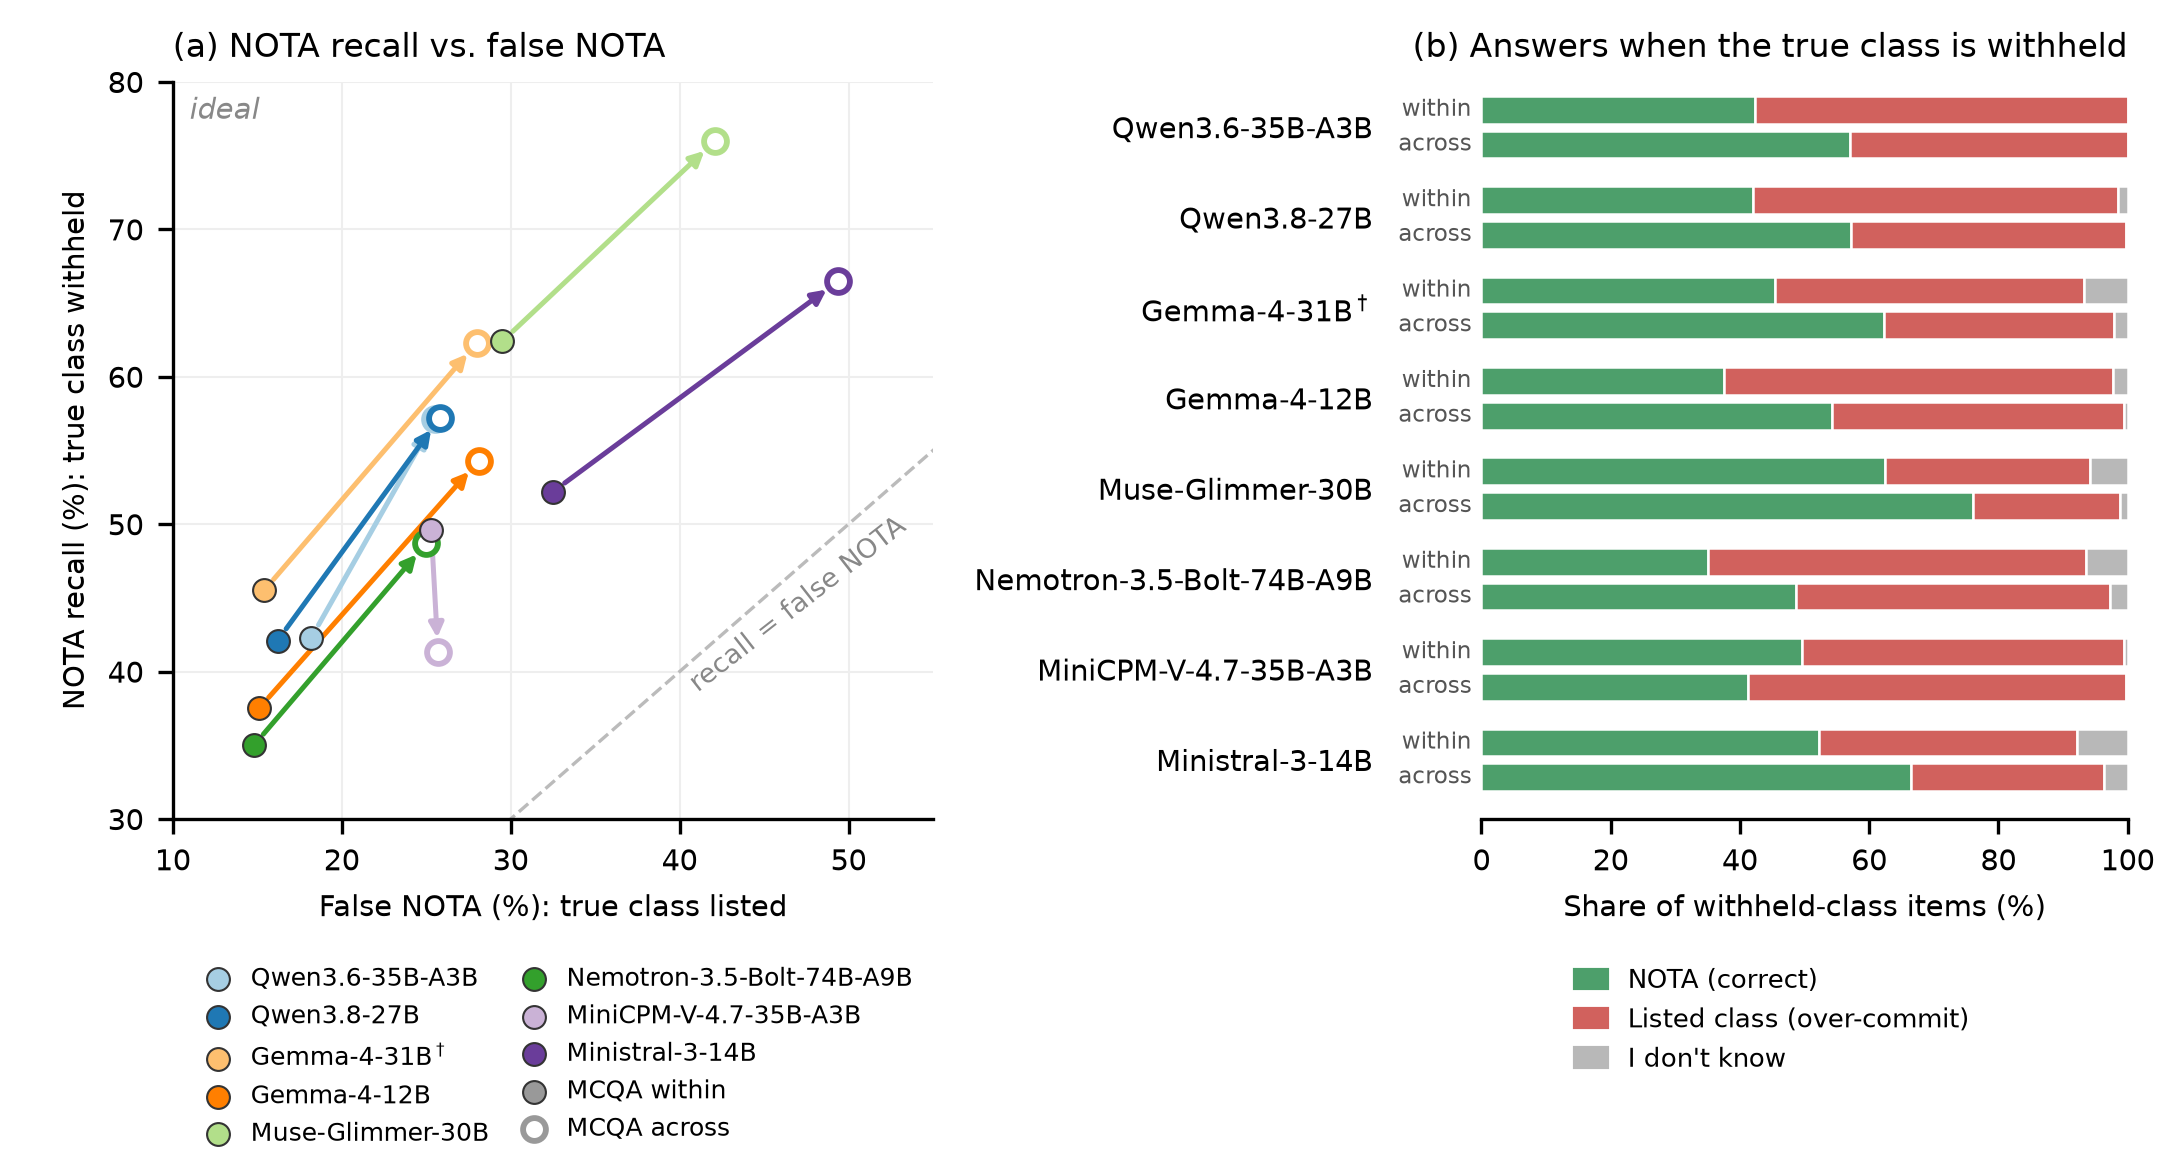
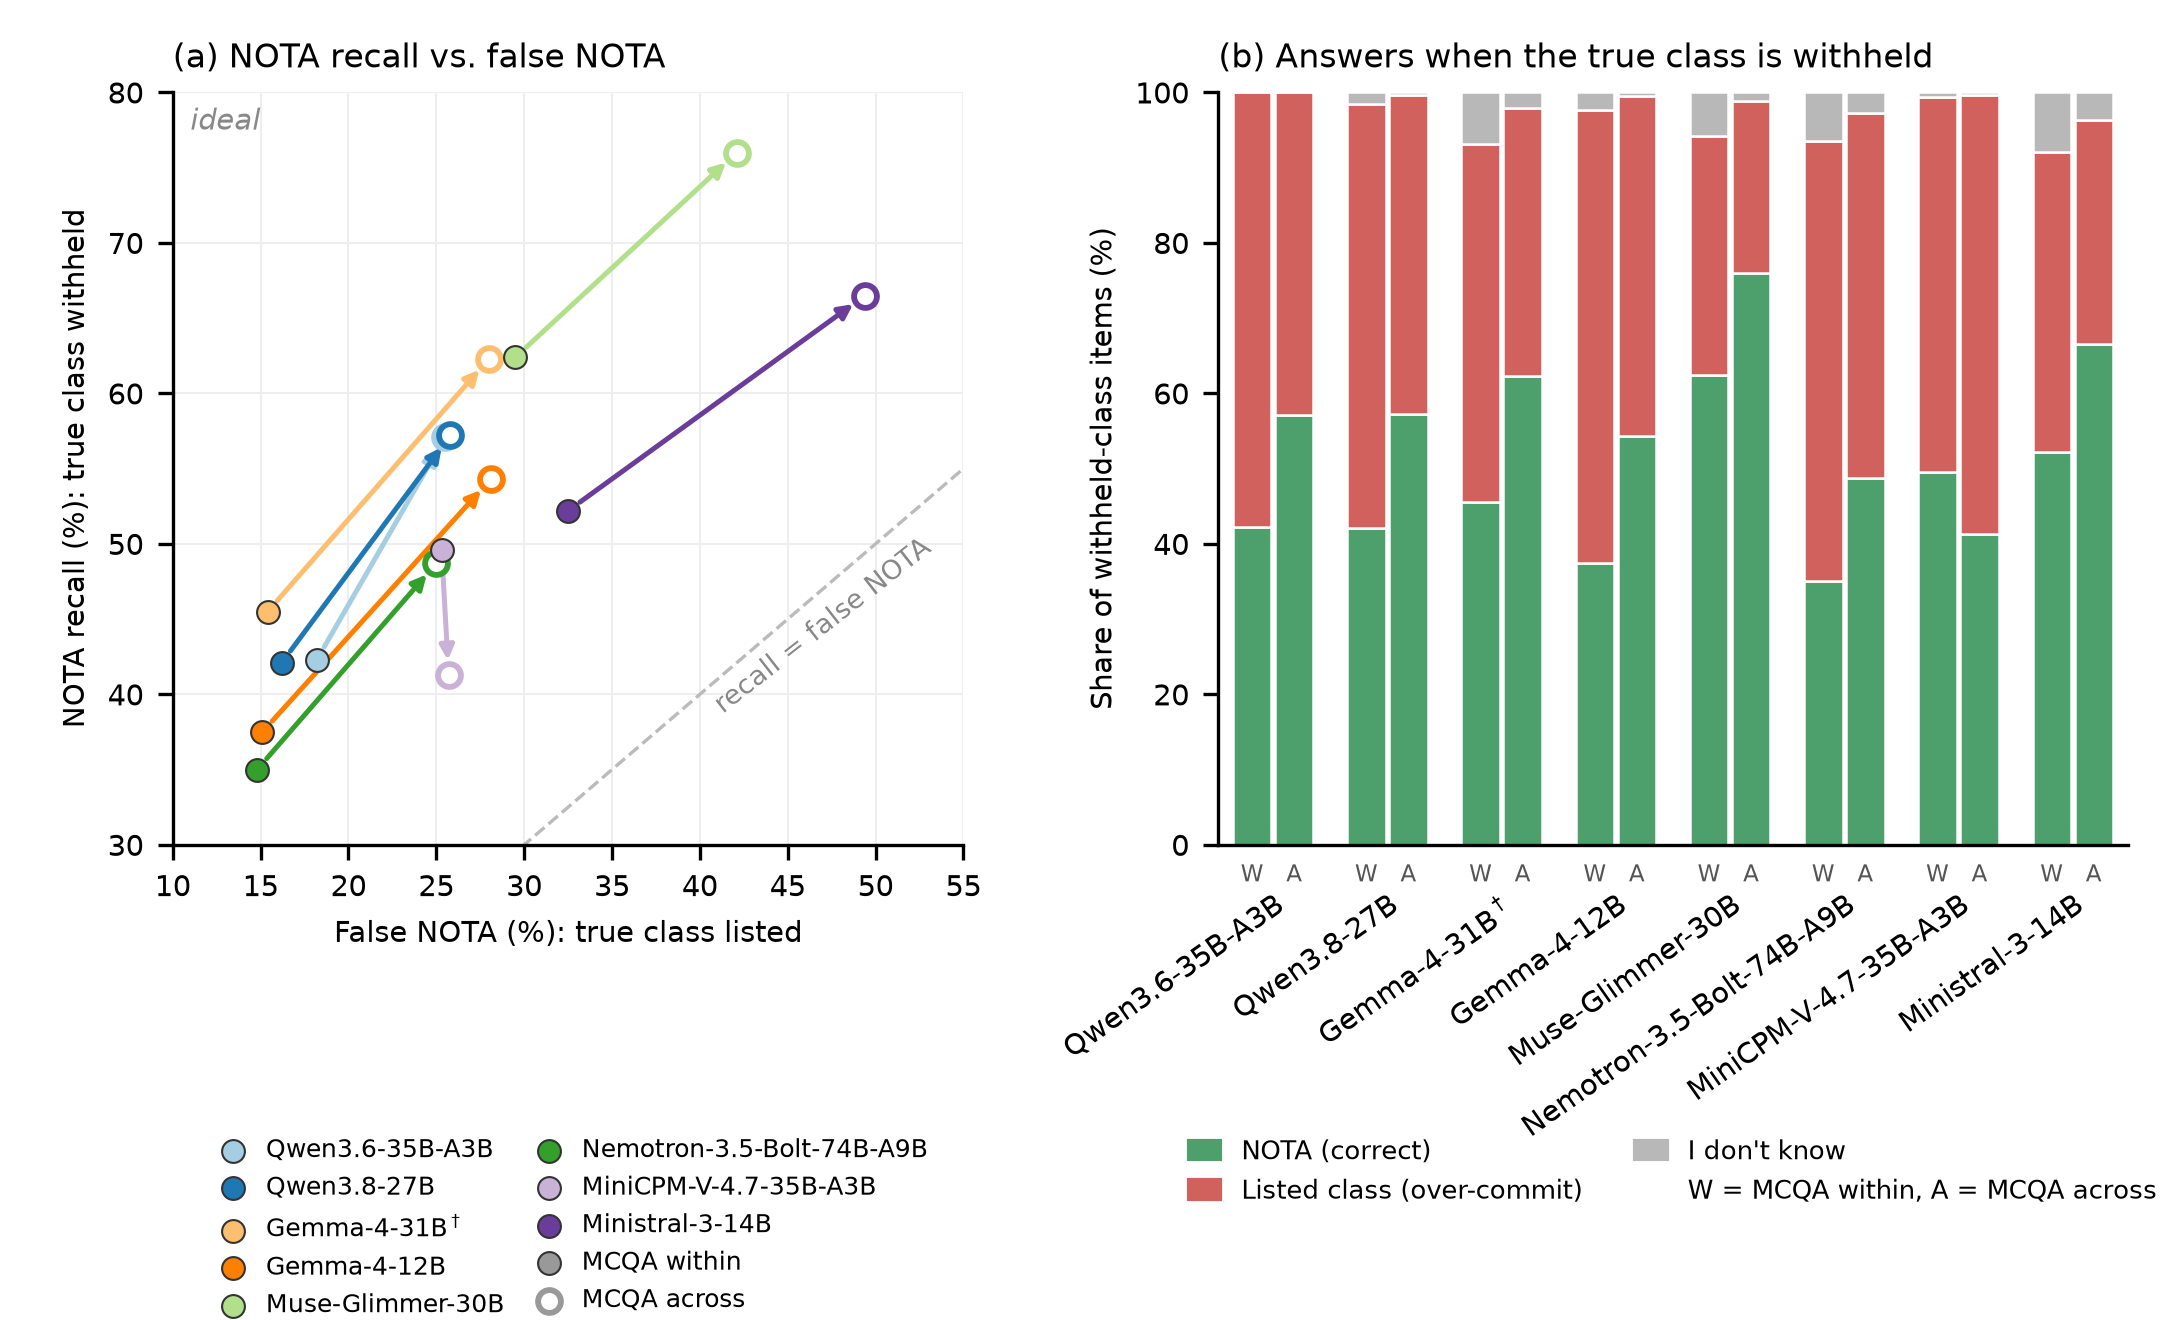
Paper: vertical Figure 7b, MCQA framing, definitions, dataset list, YOLO placeholders

diff --git a/paper/scripts/make_behaviour.py b/paper/scripts/make_behaviour.py
@@ -4,9 +4,11 @@
 (b) where each model's answers go on withheld-class items: NOTA / a listed class (over-commit) / IDK.
 
 Reads paper/numbers.json ("behaviour", written by make_assets.py); writes paper/fig_behaviour.png.
-usage: uv run --with matplotlib python paper/scripts/make_behaviour.py
+usage: uv run --with matplotlib python paper/scripts/make_behaviour.py [--horizontal]
+       panel (b) is drawn as upright bars; --horizontal draws the earlier horizontal version to fig_behaviour_horizontal.png.
 """
 import json
+import sys
 from pathlib import Path
 
 import matplotlib.pyplot as plt
@@ -66,22 +68,52 @@ def stacked(ax, beh):
     ax.set_title("(b) Answers when the true class is withheld", fontsize=8, loc="right")
 
 
+def stacked_vertical(ax, beh):
+    names = list(beh)
+    x, ticks, tlabels, w = 0.0, [], [], 0.42
+    for m in names:
+        for k, (fmt, short) in enumerate((("mcqa_within", "W"), ("mcqa_across", "A"))):
+            rec, oc = beh[m][fmt][1], beh[m][fmt][2]
+            vals = [rec, oc, max(100 - rec - oc, 0)]
+            xx = x + (k - 0.5) * (w + 0.04)
+            bottom = 0
+            for v, (_, c) in zip(vals, OUT):
+                ax.bar(xx, v, bottom=bottom, width=w, color=c, edgecolor="white", lw=0.6)
+                bottom += v
+            ax.text(xx, -2.5, short, ha="center", va="top", fontsize=5.6, color="#555555")
+        ticks.append(x); tlabels.append(label(m))
+        x += 1.25
+    ax.set_xticks(ticks); ax.set_xticklabels(tlabels, fontsize=6.2, rotation=35, ha="right", rotation_mode="anchor")
+    ax.tick_params(axis="x", length=0, pad=11)
+    ax.set_xlim(-0.6, x - 0.65)
+    ax.set_ylim(0, 100)
+    ax.set_ylabel("Share of withheld-class items (%)", fontsize=7)
+    ax.set_title("(b) Answers when the true class is withheld", fontsize=8, loc="left")
+
+
 def main():
     beh = json.load(open(P / "numbers.json"))["behaviour"]  # model -> fmt -> [acc, nota_rec, over_commit, false_nota, idk]
-    fig, (a, b) = plt.subplots(1, 2, figsize=(7.2, 3.9), gridspec_kw={"width_ratios": [1, 0.85], "wspace": 0.78})
+    vertical = "--horizontal" not in sys.argv
+    fig, (a, b) = plt.subplots(1, 2, figsize=(7.2, 4.4 if vertical else 3.9),
+                               gridspec_kw={"width_ratios": [1, 1.15] if vertical else [1, 0.85], "wspace": 0.3 if vertical else 0.78})
     scatter(a, beh)
-    stacked(b, beh)
+    (stacked_vertical if vertical else stacked)(b, beh)
     for ax in (a, b):
         ax.tick_params(labelsize=7)
         for s in ("top", "right"):
             ax.spines[s].set_visible(False)
-    b.spines["left"].set_visible(False)
-    fig.subplots_adjust(left=0.08, right=0.985, top=0.93, bottom=0.30)
+    if not vertical:
+        b.spines["left"].set_visible(False)
+    fig.subplots_adjust(left=0.08, right=0.985, top=0.93, bottom=0.36 if vertical else 0.30)
     h, l = a.get_legend_handles_labels()
-    a.legend(h, l, loc="upper center", bbox_to_anchor=(0.5, -0.17), ncol=2, fontsize=6, frameon=False,
+    a.legend(h, l, loc="upper center", bbox_to_anchor=(0.5, -0.36 if vertical else -0.17), ncol=2, fontsize=6, frameon=False,
              handletextpad=0.3, columnspacing=0.8)
-    b.legend([Patch(color=c) for _, c in OUT], [n for n, _ in OUT], loc="upper center", bbox_to_anchor=(0.45, -0.17), ncol=1, fontsize=6.3, frameon=False, handlelength=1.2)
-    fig.savefig(P / "fig_behaviour.png", dpi=300)
+    if vertical:
+        b.legend([Patch(color=c) for _, c in OUT] + [Patch(color="none")], [n for n, _ in OUT] + ["W = MCQA within, A = MCQA across"],
+                 loc="upper center", bbox_to_anchor=(0.5, -0.36), ncol=2, fontsize=6.3, frameon=False, handlelength=1.2)
+    else:
+        b.legend([Patch(color=c) for _, c in OUT], [n for n, _ in OUT], loc="upper center", bbox_to_anchor=(0.45, -0.17), ncol=1, fontsize=6.3, frameon=False, handlelength=1.2)
+    fig.savefig(P / ("fig_behaviour.png" if vertical else "fig_behaviour_horizontal.png"), dpi=300)
 
 
 if __name__ == "__main__":

diff --git a/paper/main.tex b/paper/main.tex
@@ -322,7 +322,7 @@ Within VQA (Table~\ref{tab:itt}), yes/no questions are easiest (69.6--78.4\%) an
 \begin{figure}[!htbp]
 \centering
 \includegraphics[width=0.92\linewidth]{fig_behaviour.png}
-\caption{What models do when the correct class is not among the options (Experiment~1, seed 0, default 30\% NOTA rate). (b) Answers on the questions whose true class is withheld: ``None of the above'' (correct), a wrong listed class (over-commit) or ``I don't know''. Each model has two bars, one with plausible options from the same dataset (MCQA within) and one with implausible options from other datasets (MCQA across). (a) Whether models can tell a missing answer from a listed one. The y-axis is how often a model answers NOTA when the answer is missing (NOTA recall, the green share in panel b); the x-axis is how often it answers NOTA when the answer is listed (false NOTA). The upper left is ideal, and a model on the dashed diagonal answers NOTA equally often in both cases. Arrows run from plausible options (MCQA within, filled) to implausible options (MCQA across, hollow). Per-model values are in Table~\ref{tab:behaviour} (Appendix~\ref{app:tables}). $^\dagger$Gemma-4-31B is also the LLM judge (not used for MCQA scoring).}
+\caption{What models do when the correct class is not among the options (Experiment~1, seed 0, default 30\% NOTA rate). (b) Answers on the questions whose true class is withheld: ``None of the above'' (correct), a wrong listed class (over-commit) or ``I don't know''. Each model has two bars, W with plausible options from the same dataset (MCQA within) and A with implausible options from other datasets (MCQA across). (a) Whether models can tell a missing answer from a listed one. The y-axis is how often a model answers NOTA when the answer is missing (NOTA recall, the green share in panel b); the x-axis is how often it answers NOTA when the answer is listed (false NOTA). The upper left is ideal, and a model on the dashed diagonal answers NOTA equally often in both cases. Arrows run from plausible options (MCQA within, filled) to implausible options (MCQA across, hollow). Per-model values are in Table~\ref{tab:behaviour} (Appendix~\ref{app:tables}). $^\dagger$Gemma-4-31B is also the LLM judge (not used for MCQA scoring).}
 \label{fig:behaviour}
 \end{figure}
 
